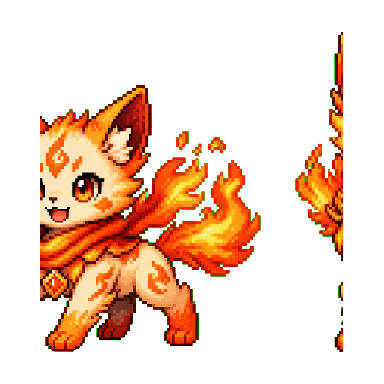
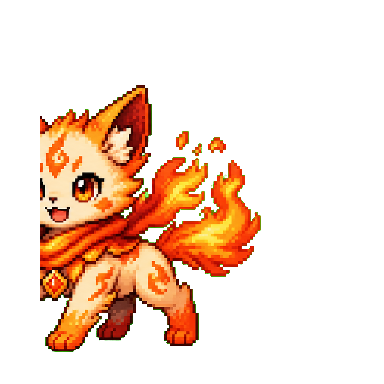
1.7.1 fix: 宠物图鉴碎图 + 图里粘着别的形态
两个独立的问题叠在一起，症状都出现在「宠物」页的图鉴上。

一、图片全部加载失败（只剩 alt 文字）
shared/pets.ts 里的图片路径写的是根绝对路径 '/assets/pets/x.png'。
它在两种 base 下都对，只在第三种下错：
  OBS overlay（http，主进程 express 挂了 /assets 前缀）  ✅
  控制台 dev（vite dev server 从项目根提供 public/）      ✅
  控制台 打包后（file:// 加载 index.html）                ❌ 解析到盘符根
所以 `pnpm dev` 里一切正常，装出来的正式版一片碎图 —— 开发时那条代码路径根本不走。

修法：新增 src/renderer/asset-url.ts，只在 file: 协议下把根绝对路径按
打包布局重新解析。overlay 和 dev 两条路径完全不动（它们本来就是对的）。

二、图片本身粘着相邻形态的碎片
这批 PNG 是从精灵图切出来的，单元格切宽了：9 张里有 6 张（每个物种的 1、2 阶）
右边带着下一形态的一角，中间隔着 27~66px 的空白带。图鉴上看像三只叠在一起。
3 阶因为是行末所以干净。

修法：把"第一段非空列"之后的像素抹成全透明。刻意不裁切、不缩放、不挪位置——
三阶的画布位置和相对大小是美术意图（越进化越大、脚底对齐），而且同一批图
还被 OBS 宠物栏用着。修前修后主体列边界完全一致，只少了碎片。

顺带
- 图鉴改成等宽三格并显示阶段名。之前三张 64px 的图之间只有 2px 间距，挤成一团；
  而阶段名（嫩芽/花苞/森冠）只活在 alt 里——只有图挂了才看得见，正是这次的情形

验证
- 新增 scripts/verify-assets.ts，pnpm verify:assets，39 条断言：
  · 按 file: 协议的解析规则算出磁盘路径，逐张确认文件在
  · overlay 那条 http 路径同样逐张确认
  · 校验 asset-url.ts 里写死的 '../../' 层级与真实构建产物一致（改了构建布局会红）
  · 自带一个极简 PNG 解码器（8bit RGBA，纯 zlib，不引第三方库），
    校验每张图的非透明像素在水平方向只有一段——将来重新导图再带进碎片会红
- 两套独立实现（Electron nativeImage 与脚本里的解码器）算出的列边界互相印证
- 实机：打包版控制台 9/9 图片加载成功、无碎图；截图确认图鉴渲染

Changed region(s): [[0.75, 0.0938, 0.9062, 0.6875], [0.8438, 0.8438, 0.9062, 0.9375], [0.875, 0.7188, 0.9062, 0.7812]]

diff --git a/scripts/verify-assets.ts b/scripts/verify-assets.ts
@@ -1,0 +1,193 @@
+/**
+ * 静态资源可达性自检（对着真实构建产物跑，跑之前先 pnpm build）
+ *
+ *   pnpm verify:assets
+ *
+ * 为什么要单独有这个：宠物图鉴那次碎图，根因是 shared/pets.ts 里写的是根绝对路径
+ * '/assets/pets/x.png'，它在两种 base 下都对、只在第三种下错：
+ *
+ *   OBS overlay（http，主进程 express 挂了 /assets）      ✅
+ *   控制台 dev（vite dev server 从项目根提供 public/）     ✅
+ *   控制台 打包后（file:// 加载 index.html）               ❌ 解析到盘符根
+ *
+ * 于是 `pnpm dev` 一切正常，装出来的正式版一片碎图 —— 靠人肉点是点不出来的，
+ * 因为开发时那条路径根本不会走到。这个脚本直接按 file:// 的解析规则算一遍，
+ * 落到磁盘上看文件在不在。
+ */
+import { existsSync, readFileSync } from 'node:fs'
+import { inflateSync } from 'node:zlib'
+import { dirname, resolve } from 'node:path'
+import { fileURLToPath, pathToFileURL } from 'node:url'
+import { PET_SPECIES } from '../src/shared/pets'
+
+let failures = 0
+let checks = 0
+function check(name: string, ok: boolean, detail = ''): void {
+  checks += 1
+  if (!ok) failures += 1
+  console.log(`  ${ok ? 'PASS' : 'FAIL'} — ${name}${detail ? ' :: ' + detail : ''}`)
+}
+
+// 用 cwd 而不是 __dirname：这个脚本被 esbuild 打进 node_modules/.cache/ 再跑，
+// __dirname 会指到那里去。pnpm 脚本一律从项目根启动，cwd 才是稳的
+const ROOT = process.cwd()
+const RENDERER_HTML = resolve(ROOT, 'out/renderer/src/renderer/index.html')
+const OVERLAY_ASSETS_DIR = resolve(ROOT, 'out/renderer/assets')
+
+// src/renderer/asset-url.ts 里写死的前缀。两边必须一致
+const FILE_PROTOCOL_PREFIX = '../../'
+
+console.log('\nA. 构建产物就位')
+check('renderer index.html 存在（没有就先 pnpm build）', existsSync(RENDERER_HTML), RENDERER_HTML)
+check('assets 目录存在', existsSync(OVERLAY_ASSETS_DIR), OVERLAY_ASSETS_DIR)
+
+if (!existsSync(RENDERER_HTML)) {
+  console.log('\n构建产物缺失，先跑 pnpm build 再来。')
+  process.exit(1)
+}
+
+console.log('\nB. 控制台（file://）能解析到每一张宠物图')
+// 完整复刻 assetUrl() 在 file: 协议下的行为
+const htmlUrl = pathToFileURL(RENDERER_HTML)
+function resolveAsFileProtocol(rootRelative: string): string {
+  return new URL(FILE_PROTOCOL_PREFIX + rootRelative.slice(1), htmlUrl).href
+}
+
+for (const species of PET_SPECIES) {
+  for (const stage of [1, 2, 3] as const) {
+    const rootRelative = species.assets[stage]
+    check(
+      `${species.name} 第 ${stage} 阶 assets 是根绝对路径`,
+      typeof rootRelative === 'string' && rootRelative.startsWith('/assets/'),
+      String(rootRelative)
+    )
+    const diskPath = fileURLToPath(resolveAsFileProtocol(rootRelative))
+    check(`${species.name} 第 ${stage} 阶图能落到磁盘`, existsSync(diskPath), diskPath)
+  }
+}
+
+console.log('\nC. OBS overlay（http://）那条路径同样能命中')
+// 主进程把 out/renderer/assets 挂在 /assets 前缀下，所以去掉前缀直接拼即可
+for (const species of PET_SPECIES) {
+  for (const stage of [1, 2, 3] as const) {
+    const served = resolve(OVERLAY_ASSETS_DIR, species.assets[stage].replace(/^\/assets\//, ''))
+    check(`${species.name} 第 ${stage} 阶可被 overlay 静态服务命中`, existsSync(served), served)
+  }
+}
+
+console.log('\nD. 前缀假设本身')
+// 若哪天改了 electron.vite.config.ts 的 rollup input，index.html 的层级会变，
+// 这条会红 —— 那时候 asset-url.ts 里的 FILE_PROTOCOL_PREFIX 也要跟着改
+check(
+  `从 index.html 往上 ${FILE_PROTOCOL_PREFIX} 正好是 assets 的父目录`,
+  resolve(dirname(RENDERER_HTML), FILE_PROTOCOL_PREFIX) === resolve(OVERLAY_ASSETS_DIR, '..'),
+  `${resolve(dirname(RENDERER_HTML), FILE_PROTOCOL_PREFIX)} vs ${resolve(OVERLAY_ASSETS_DIR, '..')}`
+)
+
+console.log('\nE. 每张宠物图只有一只宠物')
+// 这批图是从精灵图切出来的，切宽了就会把相邻形态的一角带进来（v1.7.1 修过一次：
+// 9 张里有 6 张右边粘着下一形态的碎片，图鉴上看像三只叠在一起）。
+// 判据：整张图的非透明像素在水平方向上必须是**一段连续区间**；
+// 出现被宽空白带隔开的第二段，就说明又带进了不该有的东西。
+const MIN_GAP = 8 // 小于这个宽度的空隙算同一只宠物身上的缝（比如手臂与身体之间）
+
+for (const species of PET_SPECIES) {
+  for (const stage of [1, 2, 3] as const) {
+    const diskPath = fileURLToPath(resolveAsFileProtocol(species.assets[stage]))
+    if (!existsSync(diskPath)) continue
+    try {
+      const runs = alphaColumnRuns(readFileSync(diskPath), MIN_GAP)
+      check(
+        `${species.name} 第 ${stage} 阶图里没有游离碎片`,
+        runs.length === 1,
+        runs.length === 1 ? `列 ${runs[0][0]}-${runs[0][1]}` : `发现 ${runs.length} 段：${runs.map((r) => r[0] + '-' + r[1]).join(' / ')}`
+      )
+    } catch (err) {
+      check(`${species.name} 第 ${stage} 阶图可解析`, false, (err as Error).message)
+    }
+  }
+}
+
+console.log(`\n${failures === 0 ? '全部通过' : '有失败项'}：${checks - failures}/${checks}`)
+process.exit(failures === 0 ? 0 : 1)
+
+/**
+ * 只为读 alpha 通道写的极简 PNG 解码：8bit RGBA、非隔行。
+ * 不引第三方库是刻意的——这个仓库没有图像依赖，为一条断言装 sharp 不划算。
+ * 遇到不支持的格式直接抛，不静默放行（静默放行等于这条断言白写）。
+ */
+function alphaColumnRuns(buf: Buffer, minGap: number): [number, number][] {
+  if (buf.readUInt32BE(0) !== 0x89504e47) throw new Error('不是 PNG')
+  let pos = 8
+  let width = 0
+  let height = 0
+  let bitDepth = 0
+  let colorType = 0
+  const idat: Buffer[] = []
+  while (pos < buf.length) {
+    const len = buf.readUInt32BE(pos)
+    const type = buf.toString('ascii', pos + 4, pos + 8)
+    const data = buf.subarray(pos + 8, pos + 8 + len)
+    if (type === 'IHDR') {
+      width = data.readUInt32BE(0)
+      height = data.readUInt32BE(4)
+      bitDepth = data[8]
+      colorType = data[9]
+      if (data[12] !== 0) throw new Error('不支持隔行 PNG')
+    } else if (type === 'IDAT') idat.push(Buffer.from(data))
+    else if (type === 'IEND') break
+    pos += 12 + len
+  }
+  if (bitDepth !== 8 || colorType !== 6) {
+    throw new Error(`只支持 8bit RGBA，实际 bitDepth=${bitDepth} colorType=${colorType}`)
+  }
+  const raw = inflateSync(Buffer.concat(idat))
+  const bpp = 4
+  const stride = width * bpp
+  const out = Buffer.alloc(height * stride)
+  let rp = 0
+  for (let y = 0; y < height; y++) {
+    const filter = raw[rp++]
+    const line = raw.subarray(rp, rp + stride)
+    rp += stride
+    const cur = out.subarray(y * stride, (y + 1) * stride)
+    const prev = y > 0 ? out.subarray((y - 1) * stride, y * stride) : null
+    for (let i = 0; i < stride; i++) {
+      const a = i >= bpp ? cur[i - bpp] : 0
+      const b = prev ? prev[i] : 0
+      const c = prev && i >= bpp ? prev[i - bpp] : 0
+      let v = line[i]
+      if (filter === 1) v += a
+      else if (filter === 2) v += b
+      else if (filter === 3) v += (a + b) >> 1
+      else if (filter === 4) {
+        const p = a + b - c
+        const pa = Math.abs(p - a)
+        const pb = Math.abs(p - b)
+        const pc = Math.abs(p - c)
+        v += pa <= pb && pa <= pc ? a : pb <= pc ? b : c
+      } else if (filter !== 0) throw new Error(`未知 filter ${filter}`)
+      cur[i] = v & 0xff
+    }
+  }
+  const colHas = new Array<boolean>(width).fill(false)
+  for (let y = 0; y < height; y++) {
+    for (let x = 0; x < width; x++) {
+      if (out[y * stride + x * bpp + 3] >= 16) colHas[x] = true
+    }
+  }
+  // 先按连续非空列切段，再把窄于 minGap 的缝合并回去
+  const runs: [number, number][] = []
+  let start = -1
+  for (let x = 0; x <= width; x++) {
+    if (x < width && colHas[x]) {
+      if (start < 0) start = x
+    } else if (start >= 0) {
+      const last = runs[runs.length - 1]
+      if (last && start - last[1] - 1 < minGap) last[1] = x - 1
+      else runs.push([start, x - 1])
+      start = -1
+    }
+  }
+  return runs
+}

diff --git a/src/renderer/pages/Pets.vue b/src/renderer/pages/Pets.vue
@@ -3,6 +3,7 @@ import { computed, onMounted, ref } from 'vue'
 import { petState } from '../store'
 import type { PetConfig, PetDisplayItem } from '../types'
 import { PET_LEVEL_EXP, PET_SPECIES } from '../../shared/pets'
+import { assetUrl } from '../asset-url'
 
 const config = ref<PetConfig>({ ...petState.value.config })
 const topPets = ref<PetDisplayItem[]>([])
@@ -190,14 +191,24 @@ function expPct(item: PetDisplayItem): number {
             </div>
             <code class="rounded bg-slate-900 px-2 py-1 text-xs text-slate-300">{{ species.key }}</code>
           </div>
-          <div class="mt-3 flex items-end justify-around rounded-lg bg-slate-900/50 px-2 py-3">
-            <img
+          <!-- 三阶排成等宽三格：原来是 justify-around 平铺，三张 64px 的图之间
+               只剩 2px 间距，挤成一团分不出是三只还是一只。
+               顺便把阶段名显示出来 —— 之前它只活在 alt 里，只有图挂了才看得见 -->
+          <div class="mt-3 grid grid-cols-3 gap-2 rounded-lg bg-slate-900/50 px-2 py-3">
+            <div
               v-for="stage in [1, 2, 3]"
               :key="stage"
-              :src="species.assets[stage]"
-              class="h-16 w-16 object-contain"
-              :alt="species.stageNames[stage]"
-            />
+              class="flex flex-col items-center gap-1"
+            >
+              <img
+                :src="assetUrl(species.assets[stage])"
+                class="h-14 w-14 object-contain"
+                :alt="species.stageNames[stage]"
+              />
+              <span class="text-[11px] leading-none text-slate-500">
+                {{ species.stageNames[stage] }}
+              </span>
+            </div>
           </div>
         </div>
       </div>
@@ -214,7 +225,11 @@ function expPct(item: PetDisplayItem): number {
           :key="item.ownerUid + item.pet.id"
           class="flex items-center gap-3 rounded-xl bg-slate-950/50 px-3 py-3"
         >
-          <img :src="item.species.assets[item.pet.stage]" class="h-16 w-16 object-contain" />
+          <img
+            :src="assetUrl(item.species.assets[item.pet.stage])"
+            class="h-16 w-16 object-contain"
+            :alt="item.species.stageNames[item.pet.stage]"
+          />
           <div class="min-w-0 flex-1">
             <div class="flex items-center justify-between gap-2">
               <span class="truncate text-sm font-medium text-slate-100">{{ item.pet.nickname }}</span>

diff --git a/src/renderer/asset-url.ts b/src/renderer/asset-url.ts
@@ -1,0 +1,27 @@
+// 把 shared 里那种根绝对路径的静态资源（如 '/assets/pets/xxx.png'）
+// 解析成主播端控制台真正能加载的 URL。
+//
+// 为什么需要这一层：同一个常量被三处消费，但它们的 base 不一样——
+//
+//   OBS overlay      http://127.0.0.1:38506/overlay
+//                    → 主进程用 express.static('/assets', ...) 挂了这个前缀，
+//                      '/assets/pets/x.png' 直接就是对的
+//   控制台 dev       http://localhost:5173/...
+//                    → vite dev server 从项目根提供 public/，绝对路径也是对的
+//   控制台 打包后    file:///D:/.../out/renderer/src/renderer/index.html
+//                    → '/assets/...' 会被解析成盘符根目录，永远 404
+//
+// 前两种情况天然正确，所以这个 bug 在 `pnpm dev` 里根本看不见，
+// 只有装出来的正式版会露馅（宠物图鉴一片碎图 + alt 文字）。
+
+// 打包后 renderer 的 index.html 落在 out/renderer/src/renderer/，
+// 而静态资源在 out/renderer/assets/，中间差两层。
+// 这个层级由 electron.vite.config.ts 的 rollup input 决定，
+// scripts/verify-asset-url.ts 会对着真实构建产物校验它没被改动过。
+const FILE_PROTOCOL_PREFIX = '../../'
+
+export function assetUrl(rootRelative: string): string {
+  if (!rootRelative || !rootRelative.startsWith('/')) return rootRelative
+  if (location.protocol !== 'file:') return rootRelative
+  return new URL(FILE_PROTOCOL_PREFIX + rootRelative.slice(1), location.href).href
+}
